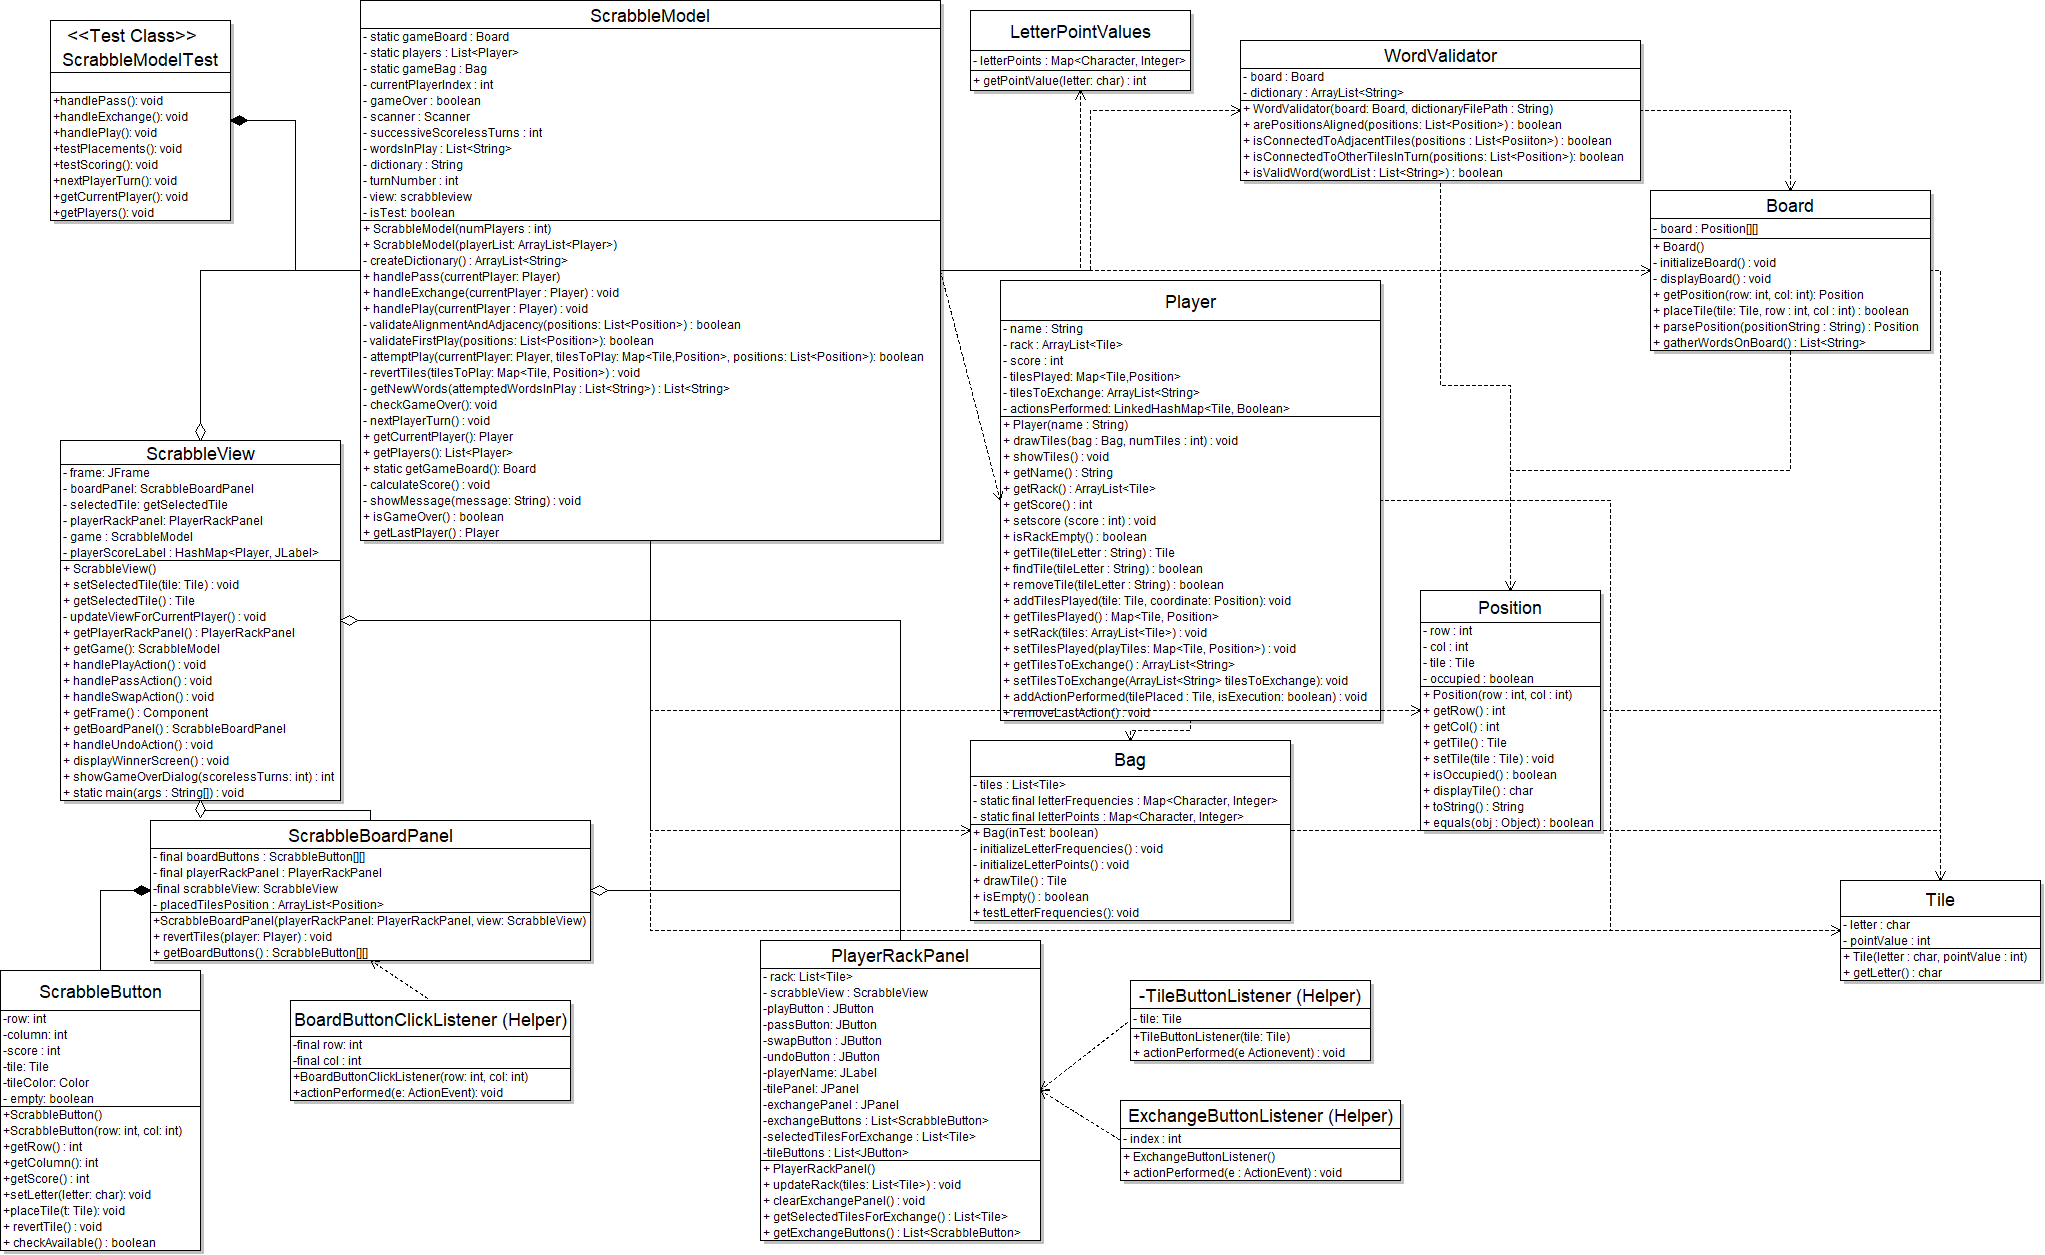
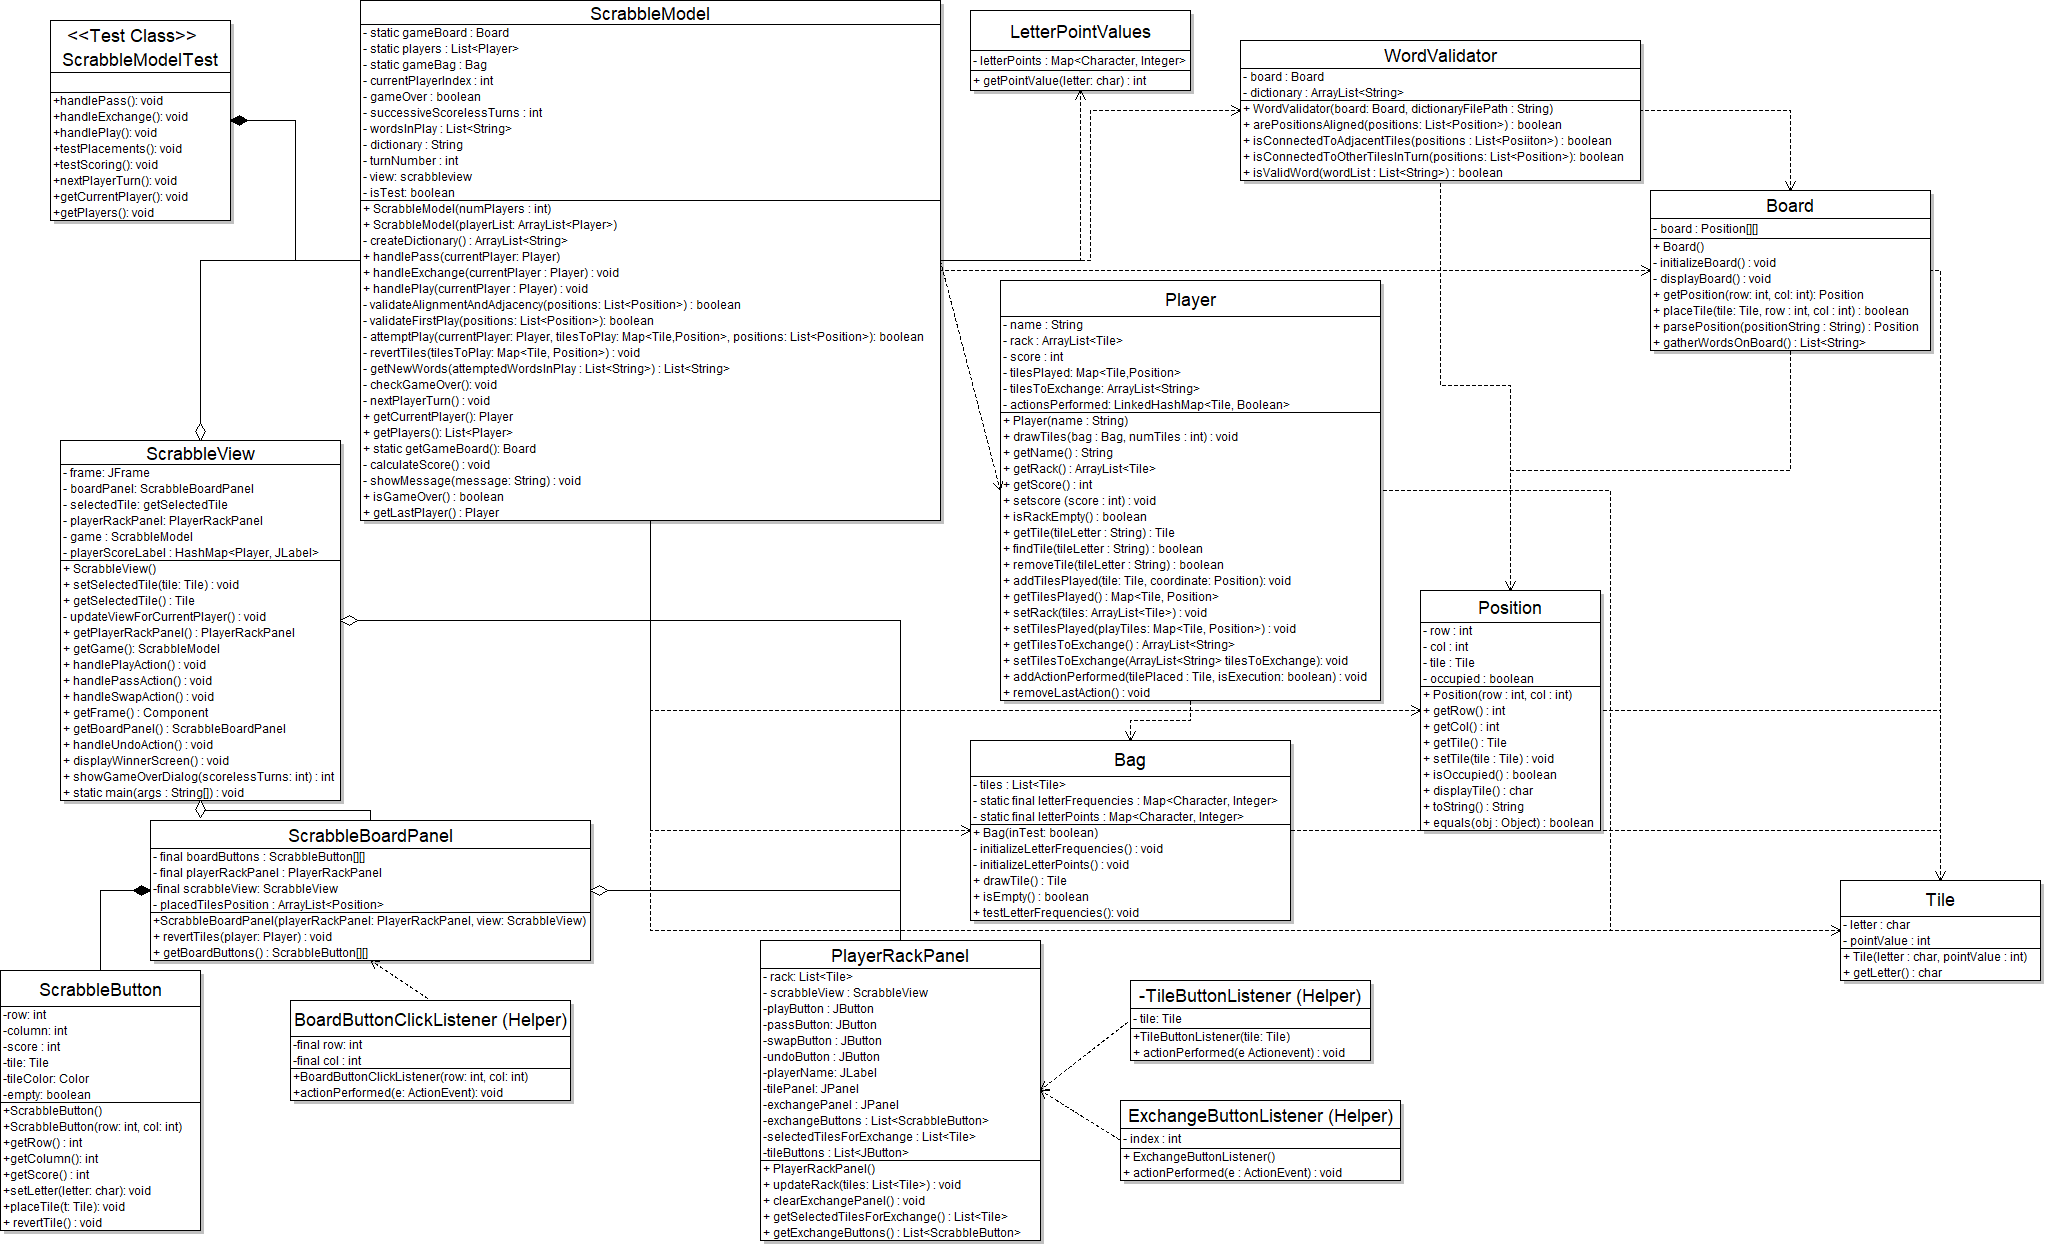
MILESTONE 2 COMPLETE: Added Tests to README.md, slightly added to tests in ScrabbleModelTest, and updated UML.

diff --git a/src/ScrabbleModelTest.java b/src/ScrabbleModelTest.java
@@ -29,11 +29,15 @@ public class ScrabbleModelTest {
 
         //Create new game from the model's testing constructor
         ScrabbleModel game = new ScrabbleModel(playerList);
+        //Check that its player 1, then pass
         assertEquals(game.getCurrentPlayer(), (player1));
         game.handlePass(game.getCurrentPlayer());
         assertEquals(game.getCurrentPlayer(), player2);
+        //Pass back to player 1
         game.handlePass(game.getCurrentPlayer());
         assertEquals(game.getCurrentPlayer(), player1);
+        //Confirm that the racks switched too
+        assertNotEquals(game.getCurrentPlayer().getRack(), player2.getRack());
         System.out.println("handlePass test successful\n");
     }
 

diff --git a/README.md b/README.md
@@ -160,12 +160,38 @@ Milestone 2:
 
 - ScrabbleModel
   - Completely overhauled class to work with GUI.
+  - Added a constructor specifically for test cases
   - Added ScrabbleView field to pass a reference of the game view.
   - Field isTest to simplify testing applications.
   - handlePlay was refactored to make adjustments easier and improve readability.
   - checkGameOver now makes use of GUI to get player input.
   - Added method showMessage to make GUI feedback dependent on isTest variable.
   - Added getters and setters for fields.
+
+
+- ScrabbleModelTest
+  - Contains all the tests we did for the model
+  - test handlePass() ensures that the handlePass method switches to the next player
+    - Also checks that the rack of the current player isn't the rack of the former
+  - test handleExchange() ensures that handleExchange swaps tiles, and the player does not have the same tiles afterwords
+    - also ensures the game switches whose turn it is
+  - test handlePlay() tests if a player's move is valid, and if it switches players afterwords
+    -first tests an invalid move, then tests a valid one  
+  - test testPlacements() tests that valid moves allow handlePlay to return true, and invalid returns false.
+    - Tests to check first move in invalid spot, with valid word and alignment returns false after play attempt
+    - Checks that a word is fully aligned but in invalid spot returns false after play attempt
+    - Checks that word that covers center square for first move but has invalid positions returns false after attempt
+    - Checks that valid word returns true for first move
+    - Checks that valid word in invalid position returns false for second move
+    - Checks that valid word returns true for second move
+      - Checks that word can use existing tiles to create a new word and returns true
+      - Checks that a valid play switches players
+  - test testScoring() checks that scores are properly calculated
+    - Checks that scores are initialized to 0
+    - Checks that valid turns add to score
+  - test NextPlayerTurn() checks that the NextPlayerTurn() function returns the correct player
+  - test getCurrentPlayer() checks that the player whose turn it is returns
+  - test getPlayers() checks that the player list contains all the players in the game
 ***************************************************************************************************************
 
 Future Goals;
